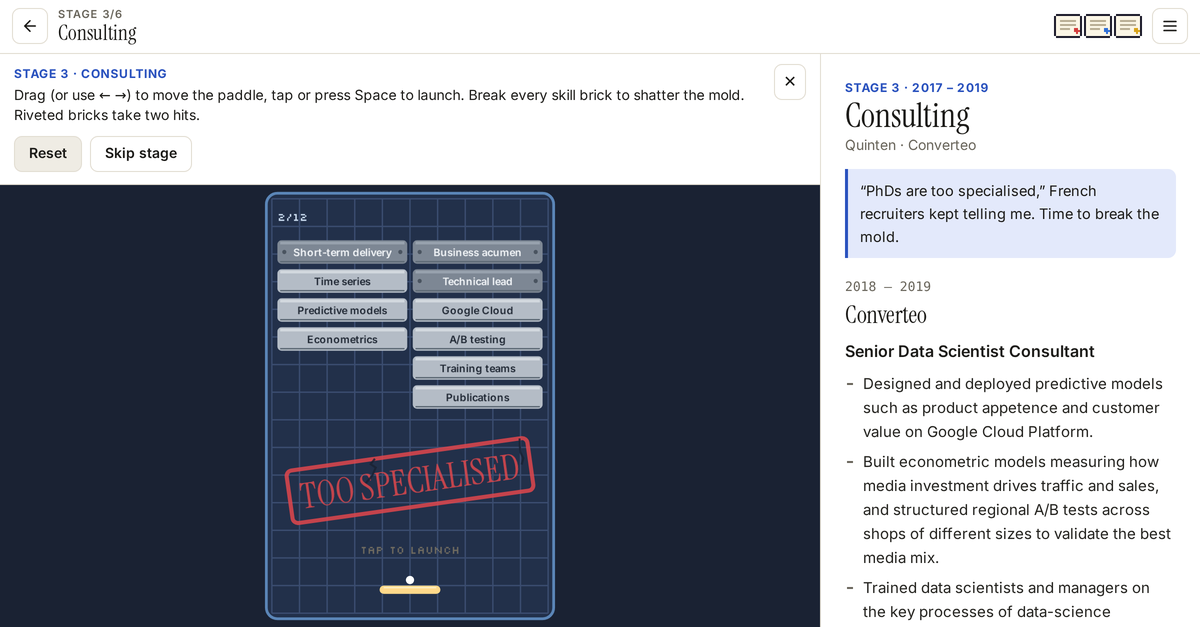
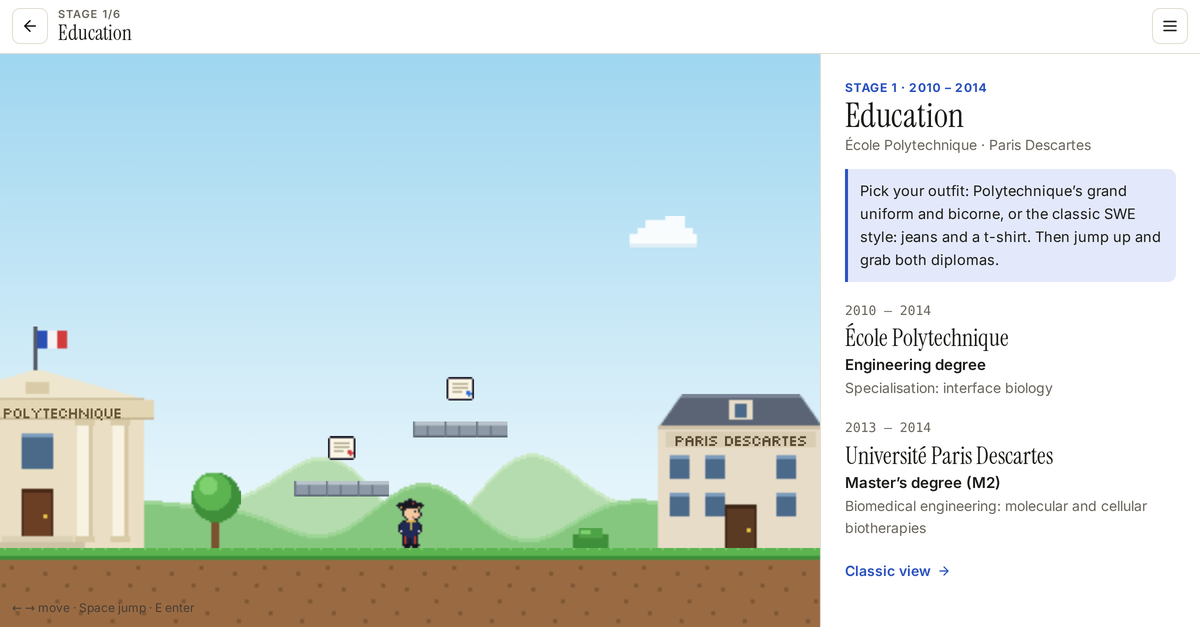
Polish play mode: rules toggle, faster walk, colour-blind-safe GMM
- Mini-game ✕ now hides the rules; a separate Back button exits
- Door prompt hides the "E" key hint on touch devices
- Walk speed and run animation 30% faster
- PhD clones use a palette that stays distinct under protan/deutan/tritan
  simulation, and centroids carry their clone's glyph
- Link preview image now shows the home world

diff --git a/app/src/play/play.ts b/app/src/play/play.ts
@@ -46,6 +46,7 @@ export function mountPlay(root: HTMLElement): View {
   let dialog: Dialog | null = null;
   let activeStage: StageId | null = null;
   let stuck = false;
+  let rulesHidden = false;
   let sheetOpen = false;
   let toastTimer = 0;
 
@@ -165,18 +166,23 @@ export function mountPlay(root: HTMLElement): View {
       return;
     }
     const st = stageById(activeStage);
-    el.minihead.innerHTML = `
-      <div class="mh-top">
+    const rules = rulesHidden
+      ? ''
+      : `<div class="mh-top">
         <div>
           <p class="mh-kicker">${esc(stageLabel(st))}</p>
           <p class="mh-howto">${esc(t(st.howTo ?? st.story))}</p>
         </div>
-        <button type="button" class="icon-btn" data-act="mg-exit" aria-label="${esc(t(s.exit))}" title="${esc(t(s.exit))}">✕</button>
-      </div>
+        <button type="button" class="icon-btn" data-act="mg-rules" aria-label="${esc(t(s.hideRules))}" title="${esc(t(s.hideRules))}">✕</button>
+      </div>`;
+    el.minihead.innerHTML = `
+      ${rules}
       ${stuck ? `<p class="mh-stuck" role="alert">${esc(t(s.stuck))}</p>` : ''}
       <div class="mh-actions">
+        <button type="button" class="btn btn-ghost" data-act="mg-exit">${icon('arrowLeft', 16)}<span>${esc(t(s.back))}</span></button>
         <button type="button" class="btn btn-soft${stuck ? ' btn-attn' : ''}" data-act="mg-reset">${esc(t(s.reset))}</button>
         <button type="button" class="btn btn-ghost" data-act="mg-skip">${esc(t(s.skip))}</button>
+        ${rulesHidden ? `<button type="button" class="btn btn-ghost mh-rules" data-act="mg-rules">${esc(t(s.showRules))}</button>` : ''}
       </div>`;
   }
 
@@ -343,6 +349,7 @@ export function mountPlay(root: HTMLElement): View {
     el.toast.hidden = true;
     activeStage = id;
     stuck = false;
+    rulesHidden = false;
     renderMinihead();
     renderPrompt();
     renderPanel();
@@ -471,6 +478,10 @@ export function mountPlay(root: HTMLElement): View {
       }
       case 'mg-exit':
         exitStage();
+        break;
+      case 'mg-rules':
+        rulesHidden = !rulesHidden;
+        renderMinihead();
         break;
     }
   };

diff --git a/app/src/play/game/PhdScene.ts b/app/src/play/game/PhdScene.ts
@@ -116,6 +116,8 @@ export class PhdScene extends Phaser.Scene {
   private marks!: Phaser.GameObjects.Graphics;
   private legend!: Phaser.GameObjects.Graphics;
   private legendIcons: Phaser.GameObjects.Image[] = [];
+  /** Faint enlarged clone glyph under each centre cross, so centres don't rely on colour alone. */
+  private centroidIcons: Phaser.GameObjects.Image[] = [];
   private done = false;
   private dragStart: Pt | null = null;
   private offBus: (() => void)[] = [];
@@ -133,6 +135,7 @@ export class PhdScene extends Phaser.Scene {
     board.fillStyle(0xfbfaf6, 1).fillRoundedRect(-4, LEGEND_H - 4, BOARD_W + 8, BOARD_H + 8, 8);
     board.lineStyle(1, 0xd8d2c4, 1).strokeRoundedRect(-4, LEGEND_H - 4, BOARD_W + 8, BOARD_H + 8, 8);
     this.regions = this.add.graphics();
+    this.centroidIcons = CLONE_COLORS.map((_, c) => this.add.image(0, 0, `cell-${c}`).setScale(1.6).setAlpha(0.45));
     this.marks = this.add.graphics().setDepth(5);
     this.legend = this.add.graphics();
 
@@ -223,9 +226,10 @@ export class PhdScene extends Phaser.Scene {
     this.marks.clear();
     // Centroid crosses.
     cents.forEach((c, i) => {
+      this.centroidIcons[i].setPosition(c.x, c.y);
       this.marks.lineStyle(3, 0xffffff, 0.9);
       this.marks.lineBetween(c.x - 5, c.y - 5, c.x + 5, c.y + 5).lineBetween(c.x - 5, c.y + 5, c.x + 5, c.y - 5);
-      this.marks.lineStyle(1.5, colors[i], 1);
+      this.marks.lineStyle(1.5, 0x1b1a2a, 1);
       this.marks.lineBetween(c.x - 5, c.y - 5, c.x + 5, c.y + 5).lineBetween(c.x - 5, c.y + 5, c.x + 5, c.y - 5);
     });
     // Rings around misassigned cells.

diff --git a/app/src/play/art/sprites.ts b/app/src/play/art/sprites.ts
@@ -175,8 +175,14 @@ export const itemSheet = (id: ItemId): Sheet => rasterize([ITEM_ART[id].rows], I
 
 /* ---------- PhD cells (13×13) ---------- */
 
-export const CLONE_COLORS = ['#e69f00', '#56b4e9', '#009e73', '#cc79a7'] as const;
-const CLONE_DARK = ['#8a5c00', '#1f6f9c', '#00573f', '#7f3d67'] as const;
+/**
+ * Picked to stay distinct under protanopia, deuteranopia and tritanopia (min ΔE ≈ 44 in
+ * simulation), with a spread of lightness so they also separate in greyscale.
+ */
+export const CLONE_COLORS = ['#ffb000', '#66ccee', '#785ef0', '#882255'] as const;
+const CLONE_DARK = ['#8a5f00', '#1f7a99', '#3a2a99', '#420f28'] as const;
+/** Glyph ink: dark on the light bodies, light on the dark ones. */
+const CLONE_INK = ['#8a5f00', '#1f7a99', '#f0ecff', '#f6d3e4'] as const;
 
 /** Nucleus glyphs so clones are distinguishable without relying on colour. */
 const GLYPHS = [
@@ -207,7 +213,7 @@ export function cellSheet(clone: number): Sheet {
   }
   return rasterize(
     [rows],
-    { b: CLONE_COLORS[clone], r: CLONE_DARK[clone], n: CLONE_DARK[clone], h: '#ffffffaa' },
+    { b: CLONE_COLORS[clone], r: CLONE_DARK[clone], n: CLONE_INK[clone], h: '#ffffffaa' },
     `cell-${clone}`,
   );
 }

diff --git a/app/src/play/play.css b/app/src/play/play.css
@@ -170,6 +170,8 @@ body[data-view='play'] {
   text-overflow: ellipsis;
 }
 .door-prompt kbd {
+  /* Only keyboard + mouse devices get the key hint (see the media query below). */
+  display: none;
   font: 600 11px var(--font-mono);
   padding: 1px 6px;
   border-radius: 4px;
@@ -237,8 +239,15 @@ body[data-view='play'] {
 }
 .mh-actions {
   display: flex;
+  flex-wrap: wrap;
   gap: 8px;
   margin-top: 10px;
+}
+.minihead > .mh-actions:first-child {
+  margin-top: 0;
+}
+.mh-rules {
+  margin-left: auto;
 }
 
 /* ---------- Buttons ---------- */
@@ -512,6 +521,9 @@ body[data-view='play'] {
   }
   .keys-hint {
     display: block;
+  }
+  .door-prompt kbd {
+    display: inline;
   }
   .stage[data-mini] .keys-hint {
     display: none;

diff --git a/app/src/play/game/BootScene.ts b/app/src/play/game/BootScene.ts
@@ -24,7 +24,7 @@ export class BootScene extends Phaser.Scene {
     for (const outfit of ['polytechnique', 'university'] as const) {
       const key = `player-${outfit}`;
       addSheet(this, key, playerSheet(outfit));
-      this.anims.create({ key: `${key}-run`, frames: this.anims.generateFrameNumbers(key, { frames: [1, 0, 2, 0] }), frameRate: 10, repeat: -1 });
+      this.anims.create({ key: `${key}-run`, frames: this.anims.generateFrameNumbers(key, { frames: [1, 0, 2, 0] }), frameRate: 13, repeat: -1 });
     }
     for (const id of Object.keys(ITEMS) as ItemId[]) addSheet(this, `item-${id}`, itemSheet(id));
     for (let c = 0; c < 4; c++) addSheet(this, `cell-${c}`, cellSheet(c));

diff --git a/app/index.html b/app/index.html
@@ -20,7 +20,7 @@
     <meta property="og:image" content="https://deveaup.github.io/og-image.png" />
     <meta property="og:image:width" content="1200" />
     <meta property="og:image:height" content="627" />
-    <meta property="og:image:alt" content="Pixel-art brick breaker: skill bricks above a red “Too specialised” stamp, next to the resume panel." />
+    <meta property="og:image:alt" content="Pixel-art platformer: a player in Polytechnique uniform between École Polytechnique and Paris Descartes, with diplomas on floating platforms, next to the resume panel." />
     <meta name="twitter:card" content="summary_large_image" />
 
     <script type="application/ld+json">

diff --git a/app/src/play/strings.ts b/app/src/play/strings.ts
@@ -11,6 +11,9 @@ export const s = {
   skipForNow: { en: 'Skip for now', fr: 'Passer pour l’instant' },
   reset: { en: 'Reset', fr: 'Recommencer' },
   exit: { en: 'Exit', fr: 'Quitter' },
+  back: { en: 'Back', fr: 'Retour' },
+  hideRules: { en: 'Hide rules', fr: 'Masquer les règles' },
+  showRules: { en: 'Rules', fr: 'Règles' },
   continue: { en: 'Continue', fr: 'Continuer' },
   enter: { en: 'Enter', fr: 'Entrer' },
   jump: { en: 'Jump', fr: 'Sauter' },

diff --git a/app/src/play/game/WorldScene.ts b/app/src/play/game/WorldScene.ts
@@ -10,7 +10,7 @@ const WORLD_BOTTOM = GROUND_Y + 40;
 const WORLD_W = 2020;
 const FINISH_X = 1950;
 
-const RUN_SPEED = 95;
+const RUN_SPEED = 124;
 const JUMP_VELOCITY = -300;
 const COYOTE_MS = 90;
 const JUMP_BUFFER_MS = 120;
